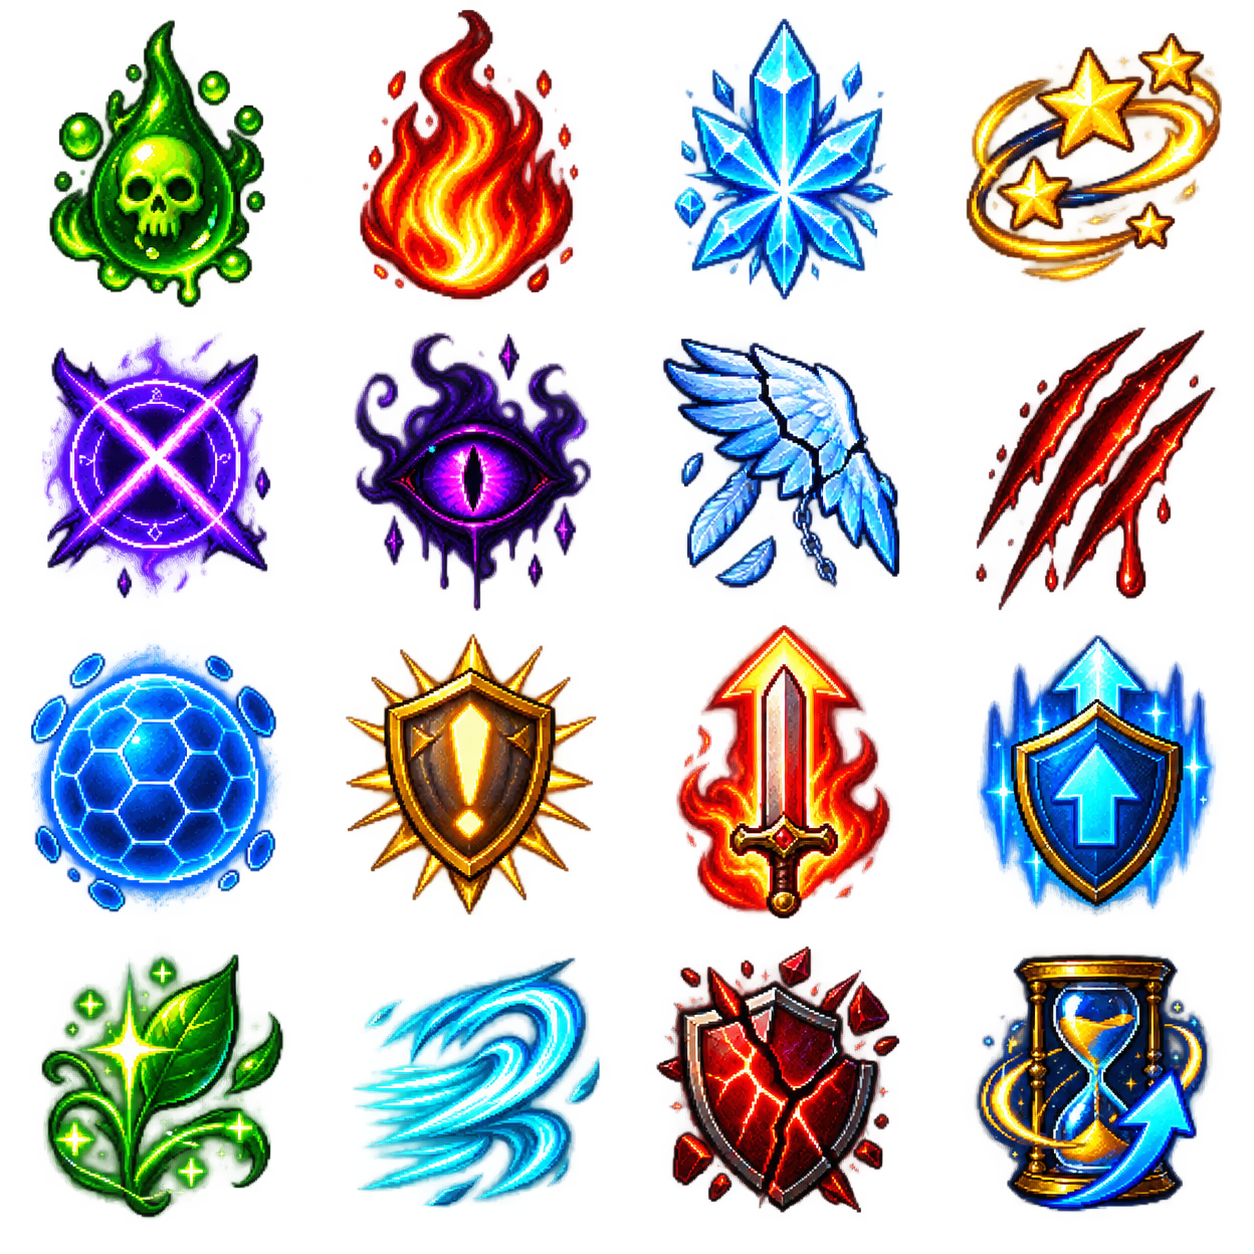
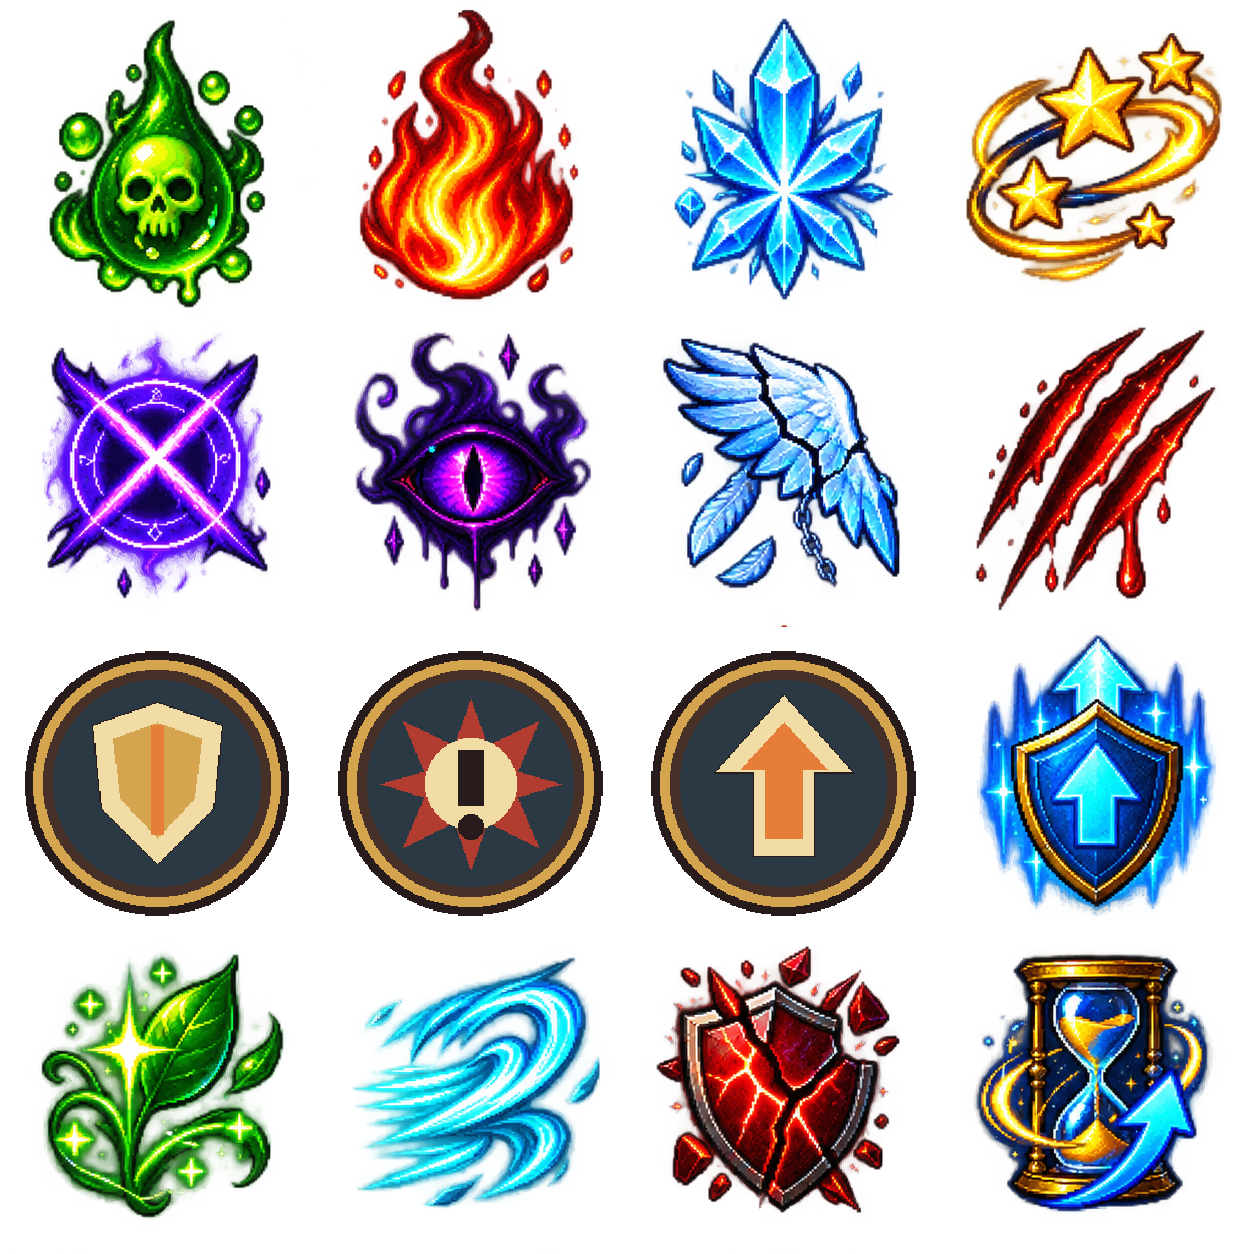
아트(게임): 실소비 상태 아이콘 3종 ox-alpha 통일
전투 HUD에서 실제 그리는 방패·도발·공격 상승 셀만 굵은 픽토그램으로 교체한다.
나머지 13칸과 아틀라스 규격·GUID·소비 경로를 유지하고 결정론·알파·단일 SelfCheck를 검증했다.

Changed region(s): [[0.0, 0.4976, 0.7464, 0.7464]]

diff --git a/projects/ashes-to-stars/art/gen_oxalpha_live_status_icons.py b/projects/ashes-to-stars/art/gen_oxalpha_live_status_icons.py
@@ -1,0 +1,100 @@
+#!/usr/bin/env python3
+"""전투 HUD에서 실제 소비되는 상태 아이콘 3종을 ox-alpha로 통일한다.
+
+18px HUD 표식은 생성형 회화보다 굵은 결정론적 픽토그램이 적합하다. 아틀라스
+규격과 나머지 13칸을 그대로 두고 shield/taunt/attack_up 셀만 교체한다.
+"""
+from pathlib import Path
+
+from PIL import Image, ImageChops, ImageDraw
+
+HERE = Path(__file__).resolve().parent
+TARGET = HERE.parent / "unity/Assets/Resources/ui/status_icon_atlas.png"
+BACKUP = HERE / "bak_higgsfield_status_icon_atlas.png"
+
+TRANSPARENT = (0, 0, 0, 0)
+INK = (39, 27, 27, 255)
+SHADOW = (70, 48, 39, 255)
+GOLD = (213, 164, 78, 255)
+CREAM = (242, 220, 166, 255)
+AMBER = (230, 126, 57, 255)
+RED = (179, 60, 48, 255)
+SLATE = (42, 57, 68, 255)
+PALETTE = {TRANSPARENT, INK, SHADOW, GOLD, CREAM, AMBER, RED, SLATE}
+
+
+def badge():
+    im = Image.new("RGBA", (256, 256), TRANSPARENT)
+    d = ImageDraw.Draw(im)
+    d.ellipse((20, 20, 235, 235), fill=INK)
+    d.ellipse((27, 27, 228, 228), fill=GOLD)
+    d.ellipse((35, 35, 220, 220), fill=SHADOW)
+    d.ellipse((43, 43, 212, 212), fill=SLATE)
+    return im, d
+
+
+def shield(d):
+    d.polygon(((128, 61), (181, 80), (174, 148), (128, 194), (82, 148),
+               (75, 80)), fill=CREAM, outline=INK)
+    d.polygon(((128, 78), (164, 91), (158, 140), (128, 172), (98, 140),
+               (92, 91)), fill=GOLD)
+    d.line((128, 80, 128, 169), fill=AMBER, width=11)
+
+
+def taunt(d):
+    d.polygon(((128, 59), (141, 97), (183, 77), (166, 118), (202, 128),
+               (166, 139), (183, 180), (141, 159), (128, 198), (115, 159),
+               (73, 180), (90, 139), (54, 128), (90, 118), (73, 77),
+               (115, 97)), fill=RED)
+    d.ellipse((91, 91, 165, 165), fill=CREAM)
+    d.rectangle((118, 101, 138, 145), fill=INK)
+    d.ellipse((118, 153, 138, 173), fill=INK)
+
+
+def attack_up(d):
+    d.polygon(((128, 55), (185, 119), (153, 119), (153, 187),
+               (103, 187), (103, 119), (71, 119)), fill=CREAM, outline=INK)
+    d.polygon(((128, 78), (163, 116), (143, 116), (143, 172),
+               (113, 172), (113, 116), (93, 116)), fill=AMBER)
+
+
+DRAW = (shield, taunt, attack_up)
+
+
+def bounds(index):
+    cell = 1254 / 4
+    return round(index * cell), round((index + 1) * cell)
+
+
+def make():
+    source = Image.open(TARGET).convert("RGBA")
+    assert source.size == (1254, 1254), source.size
+    if not BACKUP.exists():
+        source.save(BACKUP, optimize=True)
+    before = source.copy()
+
+    y0, y1 = bounds(2)
+    for col, draw_icon in enumerate(DRAW):
+        x0, x1 = bounds(col)
+        icon, draw = badge()
+        draw_icon(draw)
+        assert set(icon.getdata()) <= PALETTE
+        assert icon.getbbox() == (20, 20, 236, 236)
+        icon = icon.resize((x1 - x0, y1 - y0), Image.Resampling.NEAREST)
+        source.paste(TRANSPARENT, (x0, y0, x1, y1))
+        source.paste(icon, (x0, y0), icon)
+
+    # 선택한 3칸 밖 픽셀은 원본과 바이트 단위로 같다.
+    mask = Image.new("1", source.size, 0)
+    md = ImageDraw.Draw(mask)
+    md.rectangle((bounds(0)[0], y0, bounds(3)[0] - 1, y1 - 1), fill=1)
+    changed = ImageChops.difference(source, before)
+    changed.paste(TRANSPARENT, (bounds(0)[0], y0, bounds(3)[0], y1))
+    assert changed.getbbox() is None
+
+    source.save(TARGET, optimize=True)
+    print(f"→ {TARGET.name}  {TARGET.stat().st_size}B")
+
+
+if __name__ == "__main__":
+    make()
